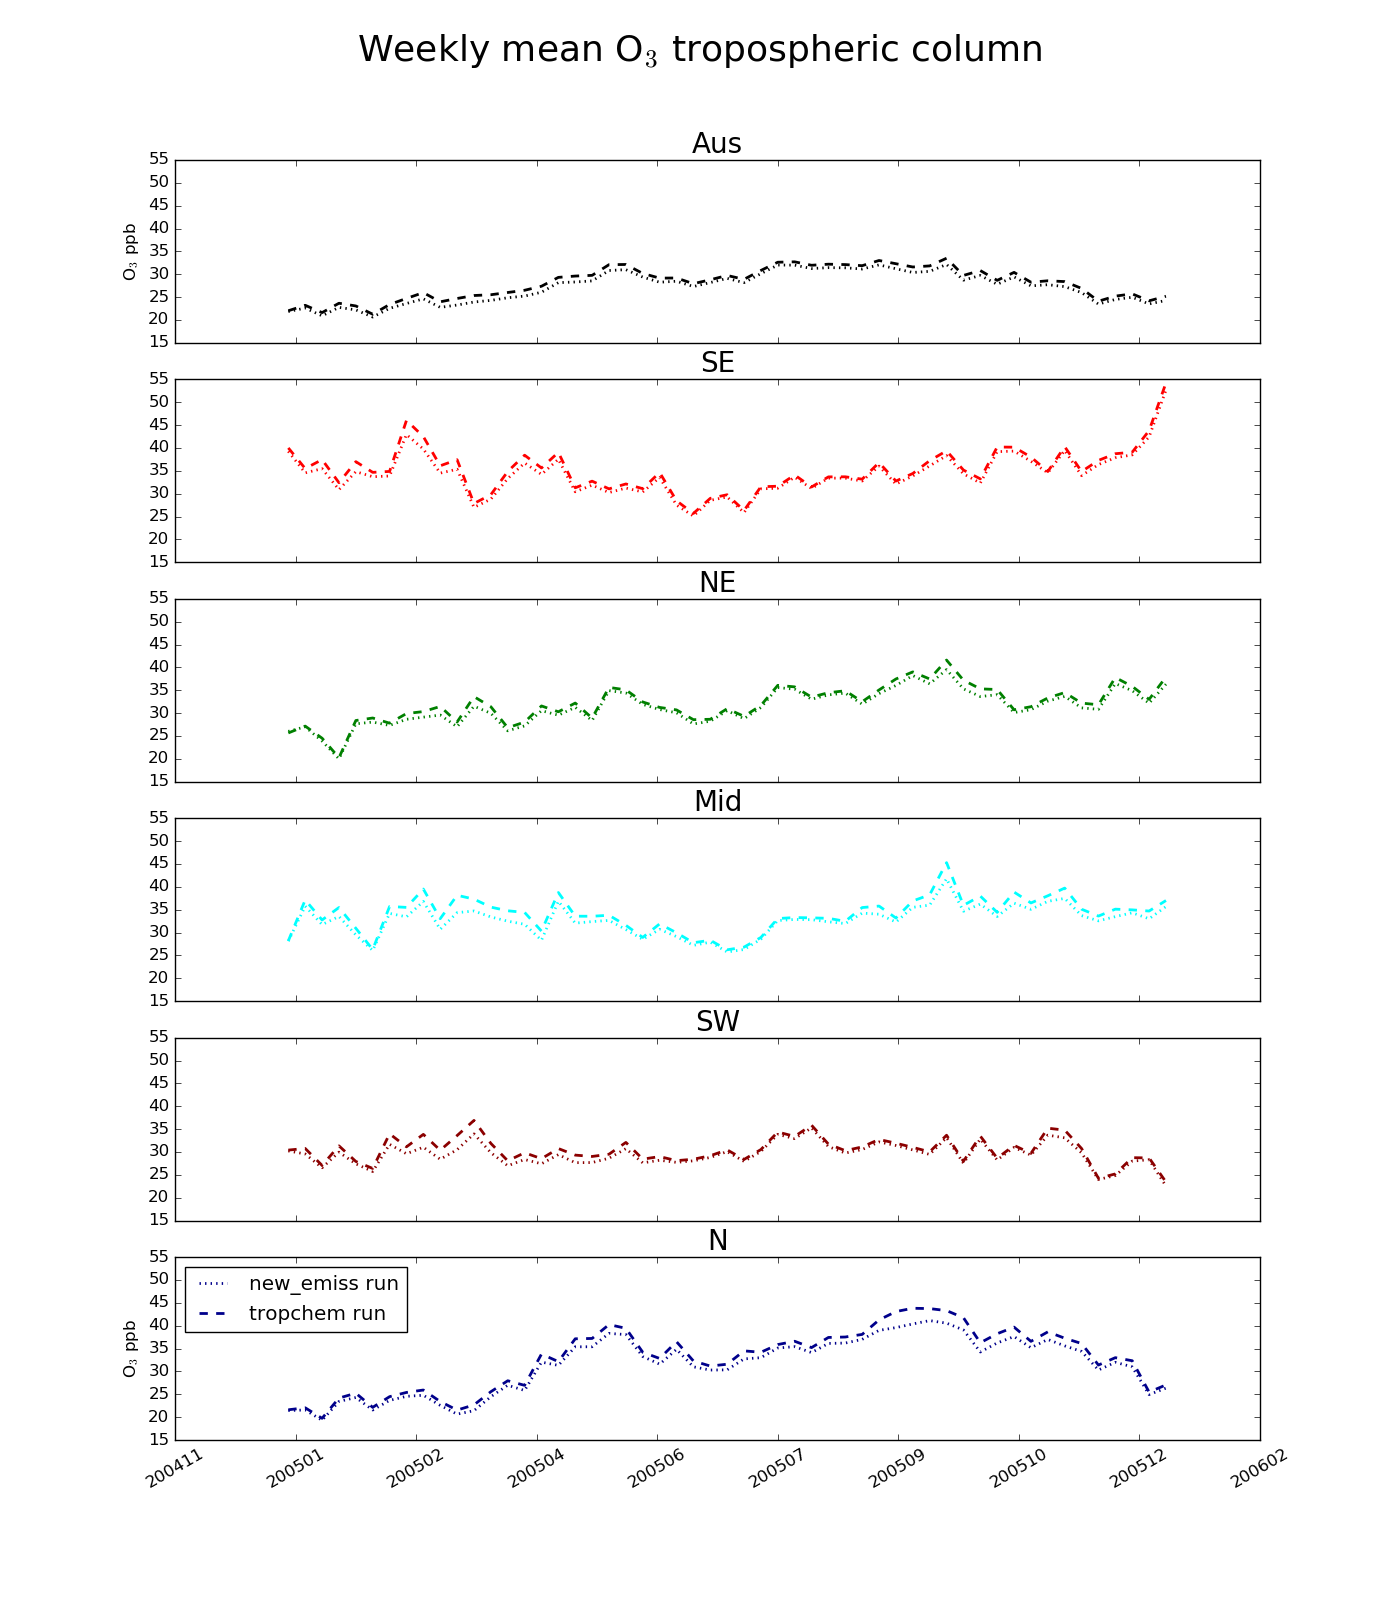
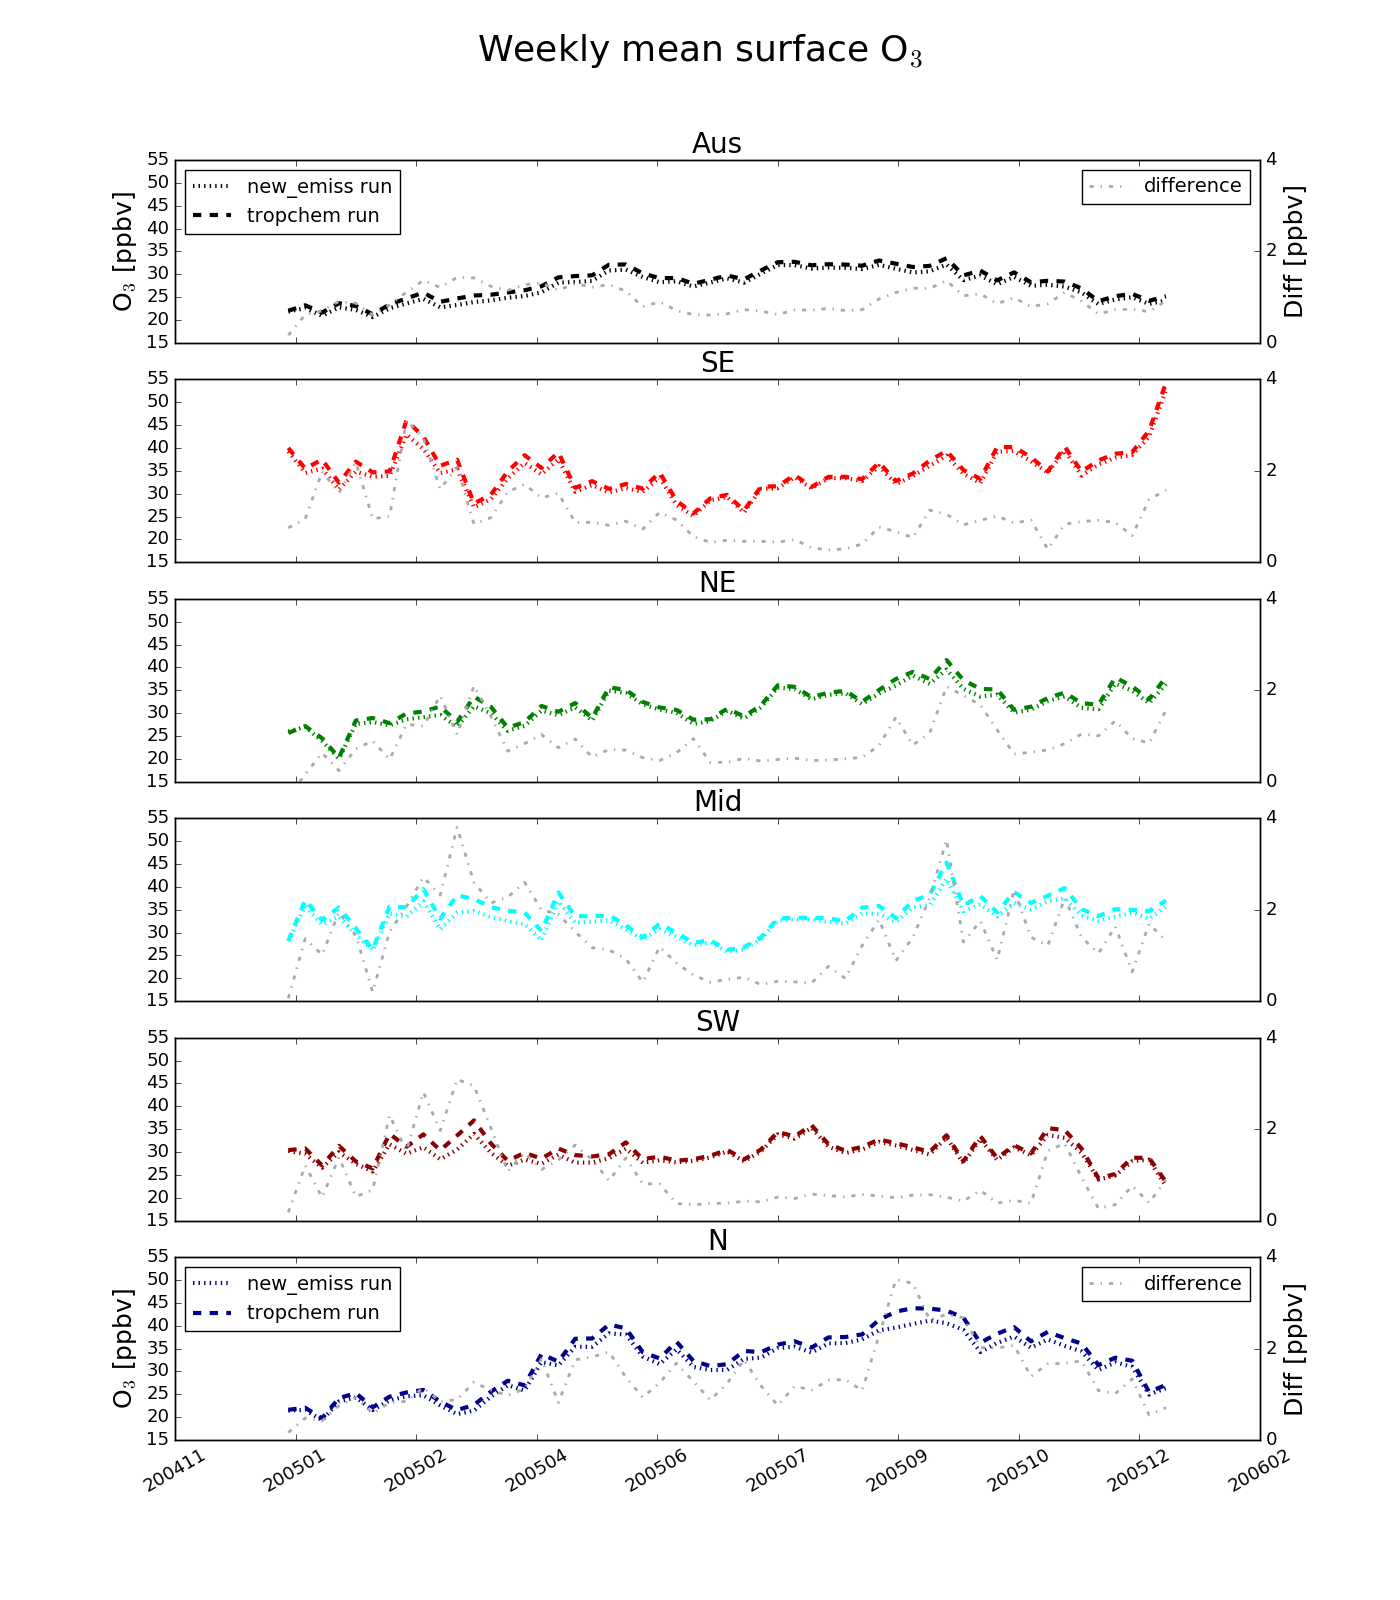
updated ozone surface time series comparison

diff --git a/chapter_3_isop.py b/chapter_3_isop.py
@@ -861,8 +861,8 @@ def modelled_ozone_comparison(d0,d1):
         # Add another y axis, for absolute differences:
         twinax.append(plt.twinx())
         pp.plot_time_series(newdates,o3_tropchem-o3_new_emiss, label='difference', linestyle='-.',color='darkgrey',linewidth=2)
-        plt.plot([newdates[0],newdates[-1]+timedelta(days=50)],[0,0],'k--',alpha=0.35,linewidth=1,label='zero line') # zero line
-        plt.ylim([-1,4])
+        #plt.plot([newdates[0],newdates[-1]+timedelta(days=50)],[0,0],'k--',alpha=0.35,linewidth=1,label='zero line') # zero line
+        plt.ylim([0,4])
         plt.yticks([0,2,4],[0,2,4])
 
     # final touches figure
@@ -874,8 +874,8 @@ def modelled_ozone_comparison(d0,d1):
         plt.sca(axes[ii])
         plt.ylabel('O$_3$ [ppbv]',fontsize=18)
         plt.legend(loc='upper left')        
-    plt.xlim([newdates[0]-timedelta(days=4), newdates[-1]+timedelta(days=4)])
-    plt.suptitle('%s mean O$_3$ tropospheric column'%suptitle_prefix, fontsize=26)
+    #plt.xlim([newdates[0]-timedelta(days=4), newdates[-1]+timedelta(days=4)])
+    plt.suptitle('%s mean surface O$_3$'%suptitle_prefix, fontsize=26)
     
     plt.savefig(pname)
     print('SAVED FIGURE ',pname)
